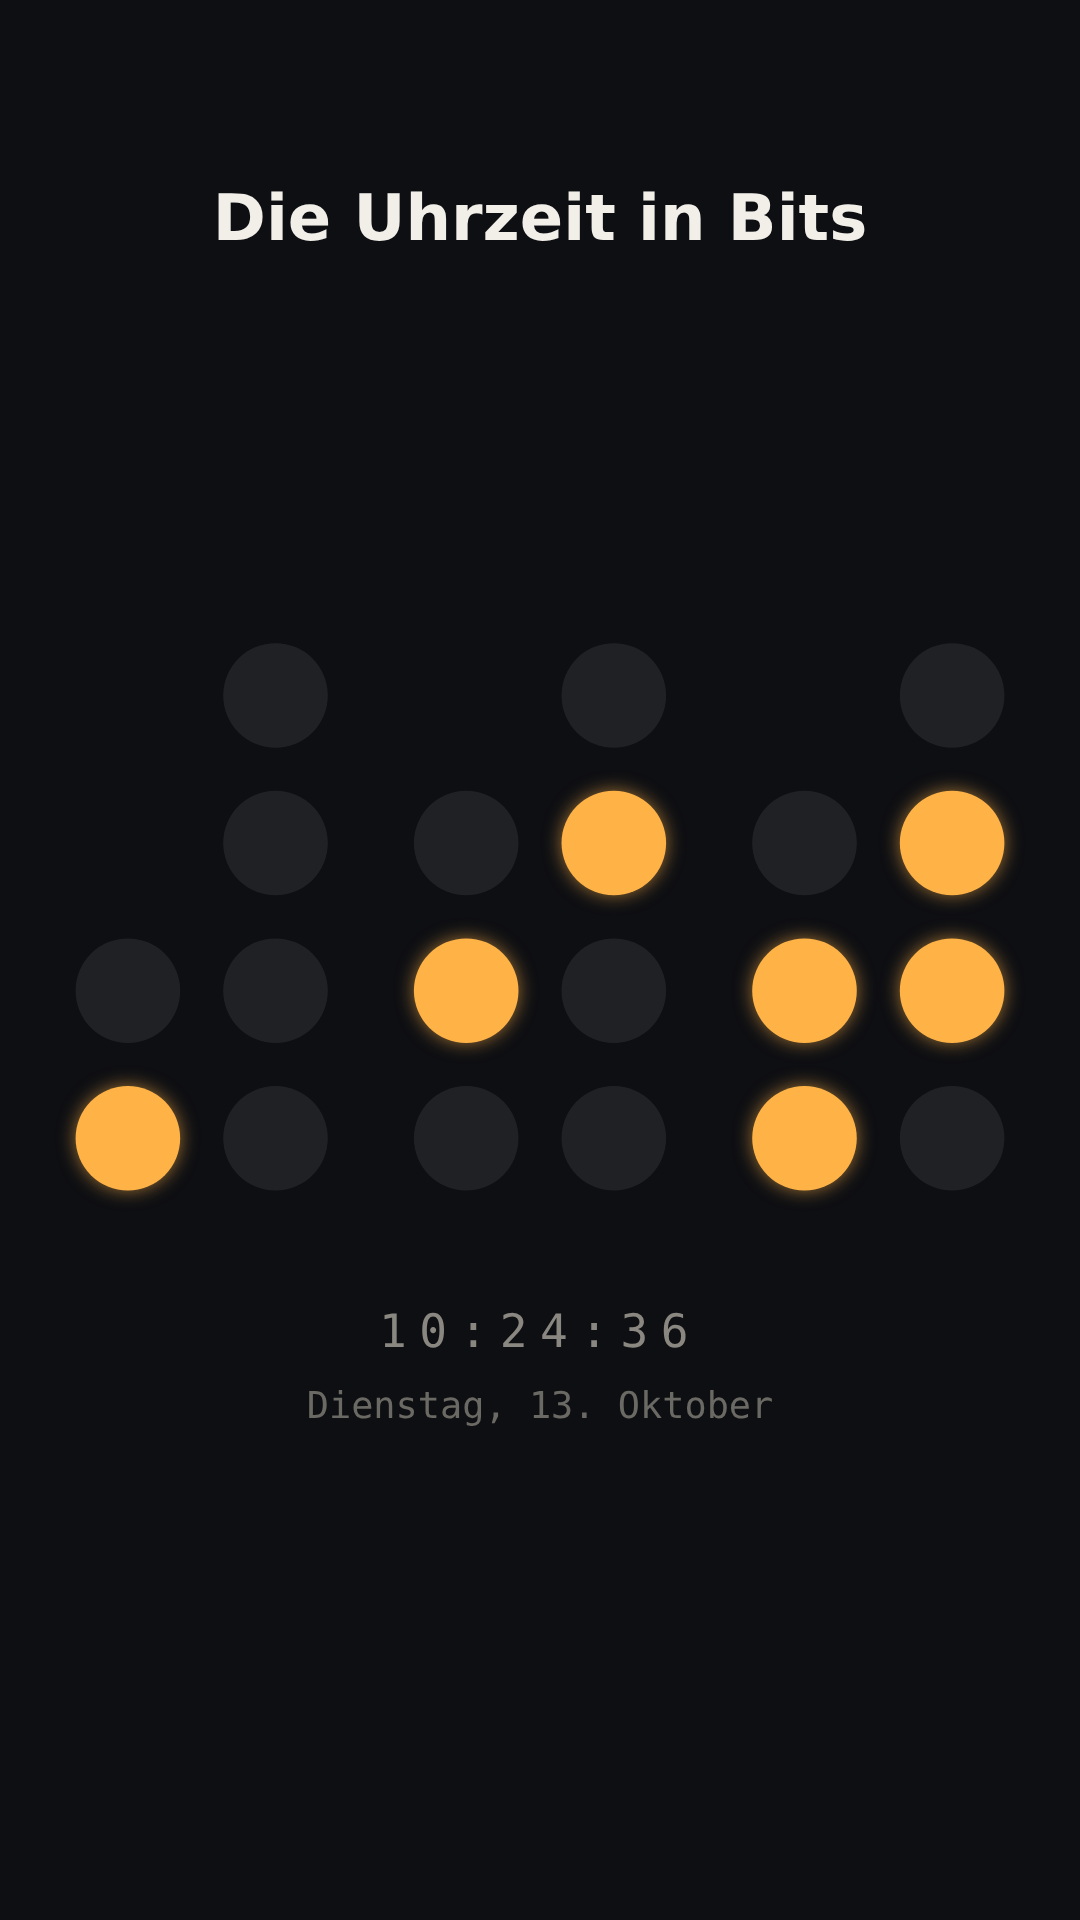
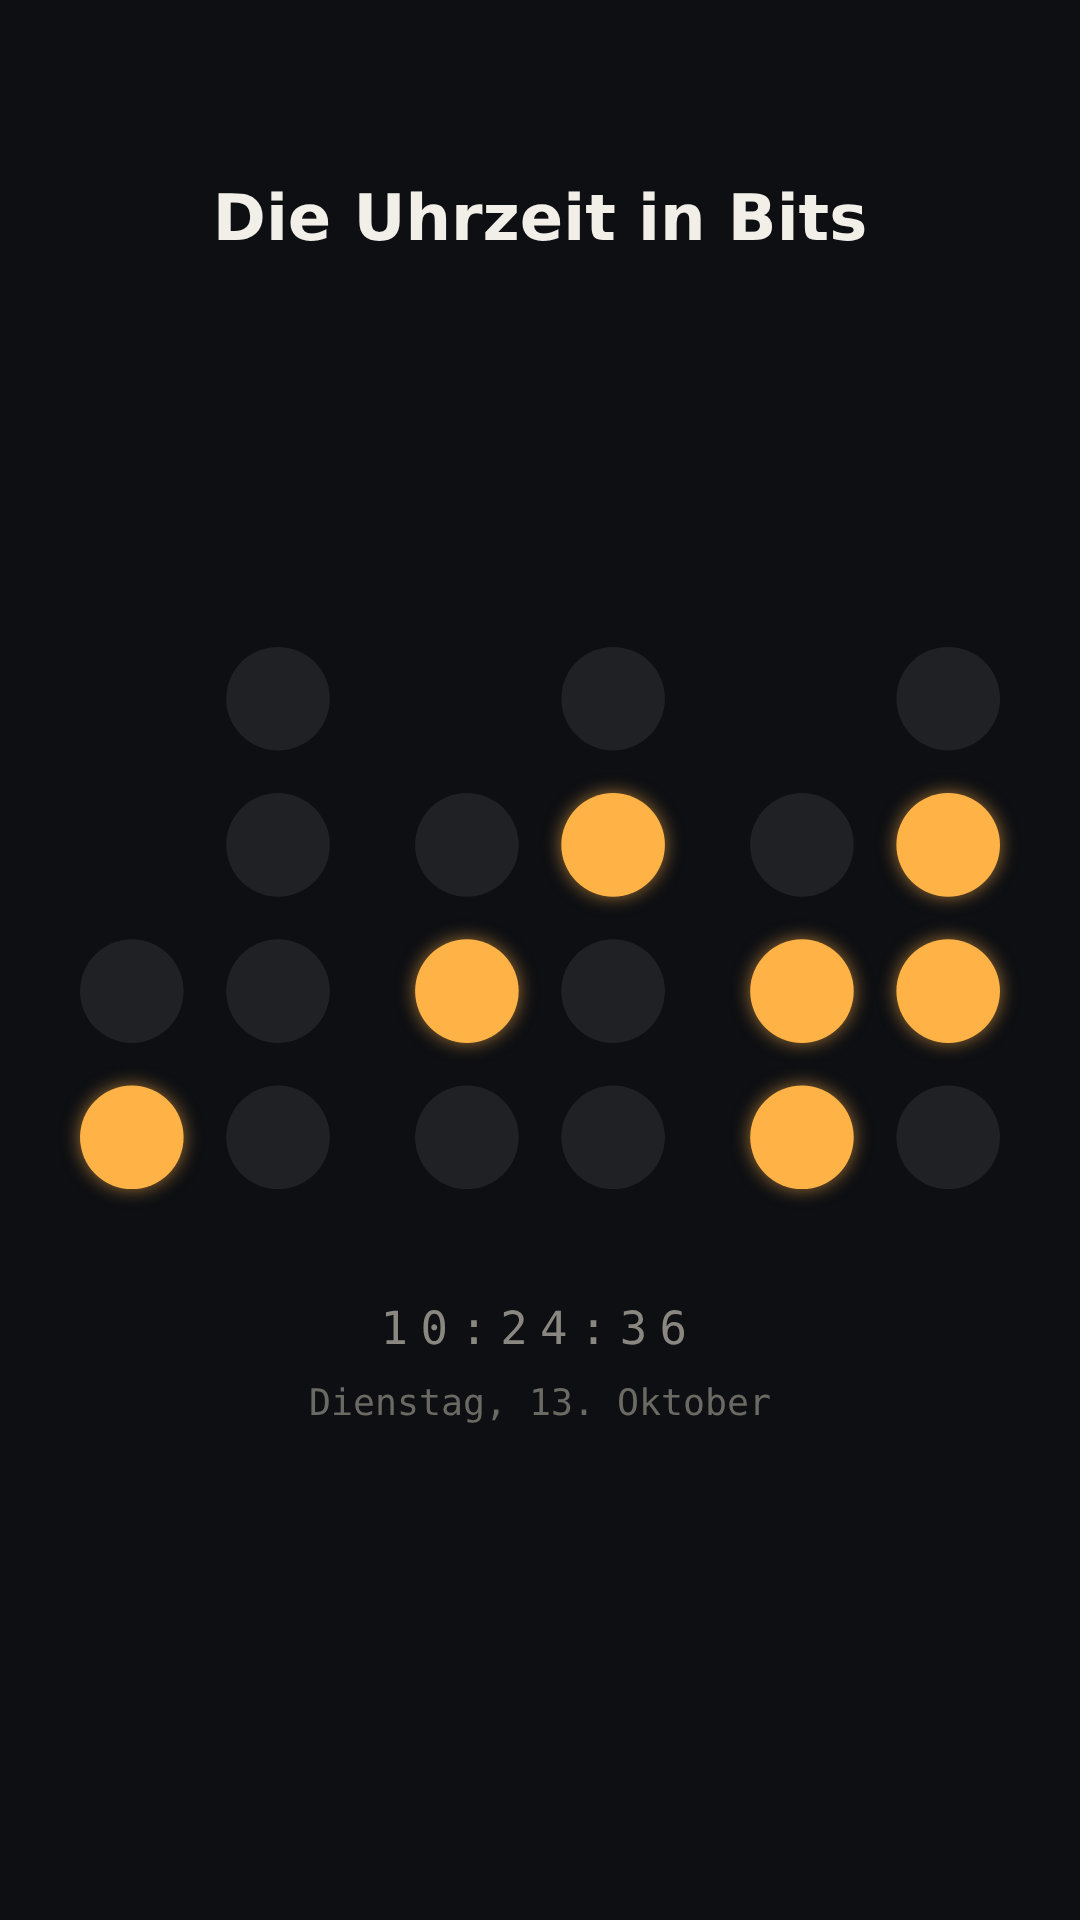
Balken etwas größer, Store-Texte und Screenshots für 7 Stile
Claude-Session: https://claude.ai/code/session_01PknfYBv2VBnmEymeeKxf6x

diff --git a/app/src/main/java/com/beigel/binaryclock/clock/ClockRenderer.kt b/app/src/main/java/com/beigel/binaryclock/clock/ClockRenderer.kt
@@ -523,8 +523,8 @@ class ClockRenderer {
         const val TE_ROW_H = 40f
         const val TE_ROW_GAP = 8f
 
-        const val BA_W = 34f
-        const val BA_H = 12f
-        const val BA_VGAP = 10f
+        const val BA_W = 38f
+        const val BA_H = 14f
+        const val BA_VGAP = 12f
     }
 }

diff --git a/README.md b/README.md
@@ -4,12 +4,16 @@ Eine Binäruhr für Android – als **Live Wallpaper** (Homescreen + Sperrbildsc
 
 ## Features
 
-- **4 Stile**
-  - *Klassisch* – BCD, eine Punktspalte pro Ziffer, Bernstein auf Schwarz
+- **7 Stile**, jeweils mit heller und dunkler Palette (System/Hell/Dunkel)
+  - *Klassisch* – BCD, eine Punktspalte pro Ziffer
   - *Binär* – Stunde/Minute/Sekunde als echte Binärzahlen (3 Zeilen)
   - *LED* – eckige „Leuchtdioden“ im Gehäuse, mit Ziffern als Lernhilfe
-  - *Papier* – heller Bauhaus-Look, Sekunden in Rot
+  - *Papier* – Bauhaus-Look, Sekunden in Rot
+  - *Ringe* – drei segmentierte Ringe
+  - *Terminal* – Einsen und Nullen in Monospace
+  - *Balken* – minimalistische Striche (BCD)
 - Akzentfarbe frei wählbar
+- Position und Größe frei wählbar (Ziehen/Zoomen in der Vorschau oder Schieberegler), getrennt für Homescreen und Sperrbildschirm
 - Sekunden, Lernhilfe (Zahlen/Stellenwerte) und Datum ein-/ausblendbar
 - Live Wallpaper tickt sekündlich, aber nur solange es sichtbar ist (akkuschonend)
 - Widget aktualisiert sich zu jeder vollen Minute (exakt, wenn die Berechtigung „Wecker & Erinnerungen“ erteilt ist)
